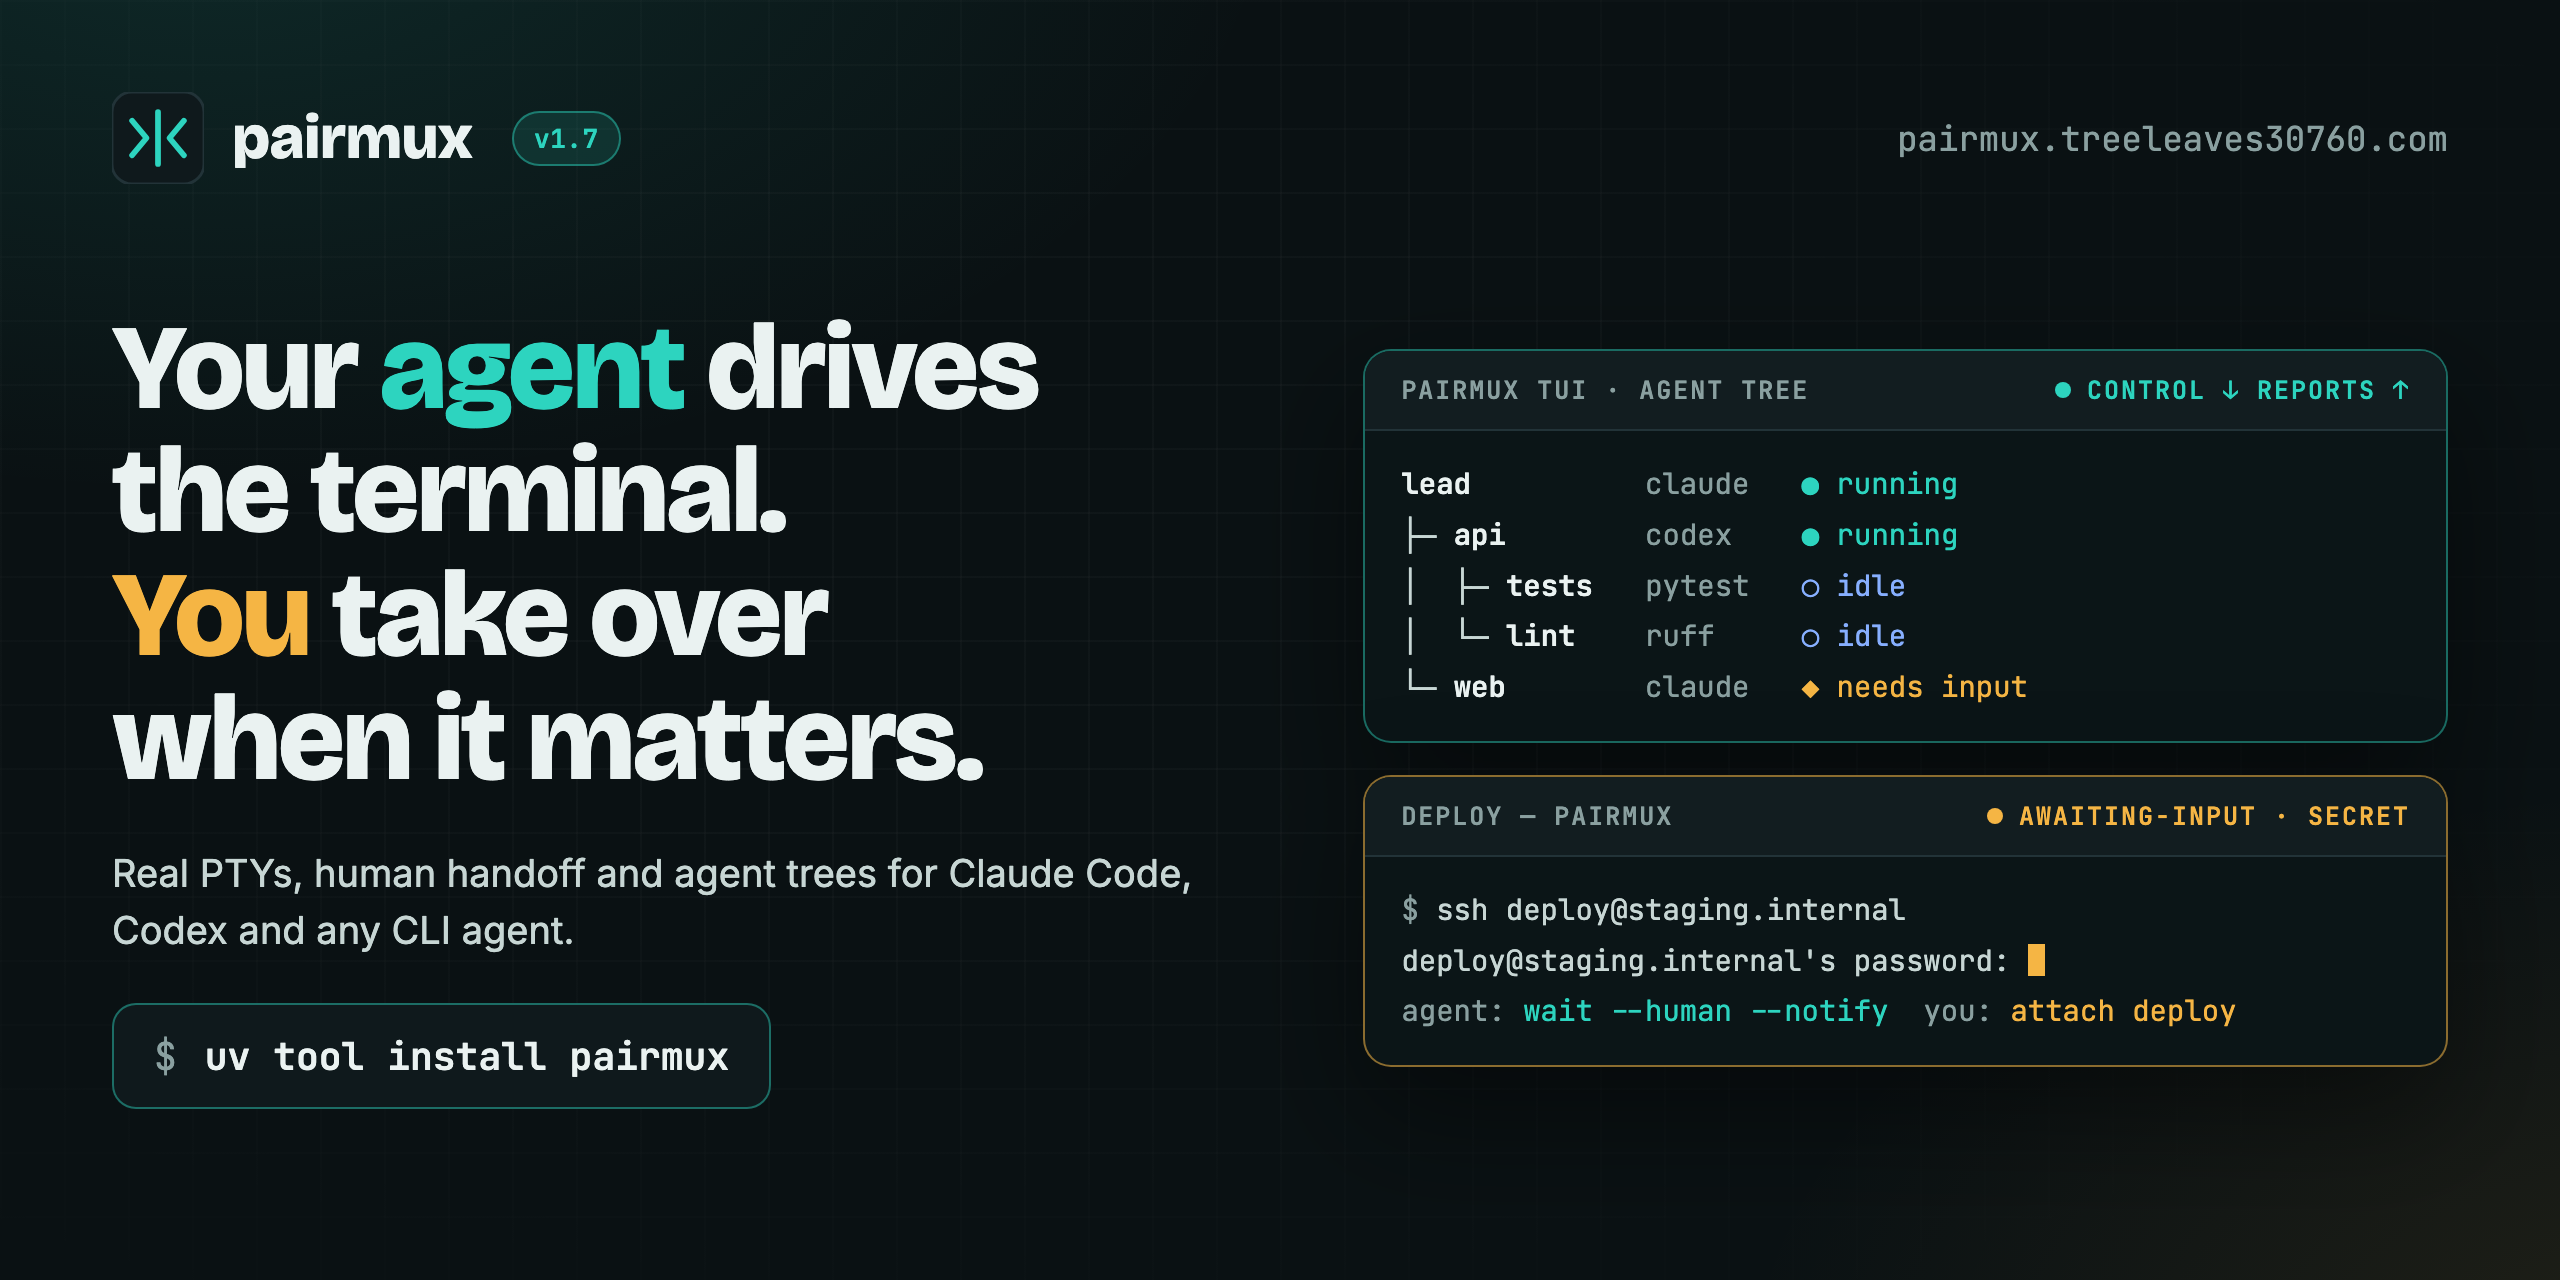
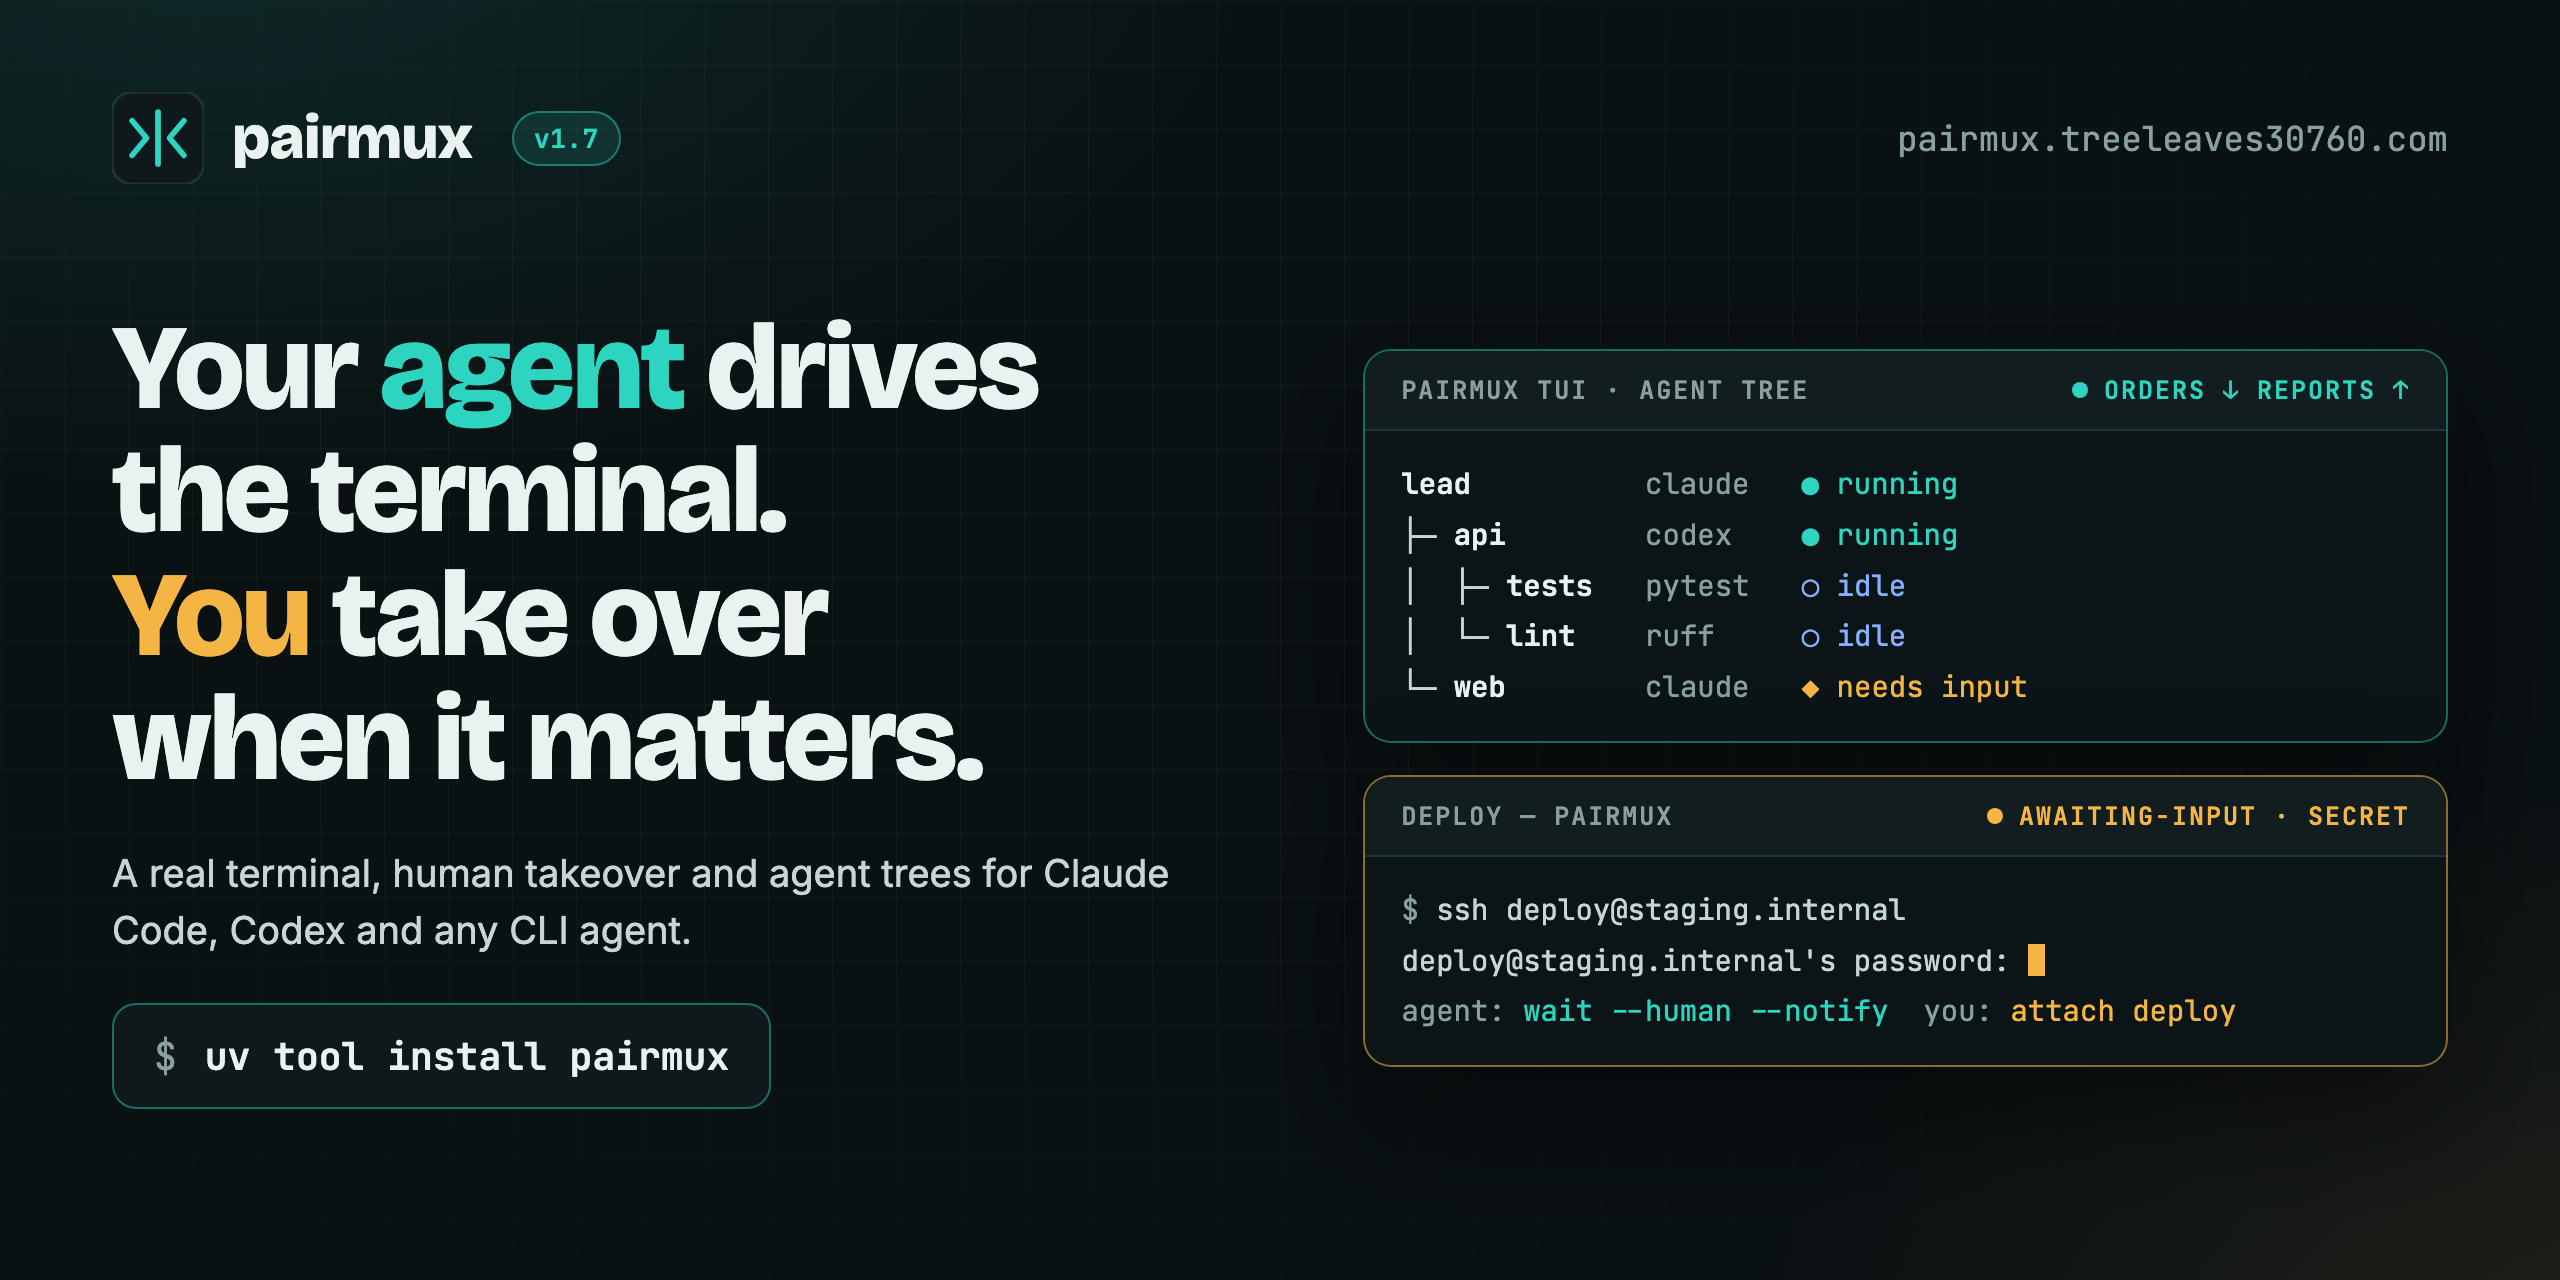
doc: add-chinese-promo-images-and-plainer-copy
Claude-Session: https://claude.ai/code/session_01WkbdfKWnBxNVoFWyd12Hbi

Changed region(s): [[0.0312, 0.6562, 0.4688, 0.75], [0.7812, 0.2812, 0.875, 0.3125]]

diff --git a/assets/promo/promo.html b/assets/promo/promo.html
@@ -4,7 +4,7 @@
 <meta charset="utf-8">
 <title>pairmux promo</title>
 <link rel="preconnect" href="https://fonts.googleapis.com">
-<link href="https://fonts.googleapis.com/css2?family=Bricolage+Grotesque:opsz,wght@12..96,600;12..96,800&family=Inter:wght@400;500;600&family=JetBrains+Mono:wght@400;600;700&display=block" rel="stylesheet">
+<link href="https://fonts.googleapis.com/css2?family=Bricolage+Grotesque:opsz,wght@12..96,600;12..96,800&family=Inter:wght@400;500;600&family=JetBrains+Mono:wght@400;600;700&family=Noto+Sans+TC:wght@400;500;700;900&display=block" rel="stylesheet">
 <style>
 :root {
   --bg-0:#0a1113; --bg-1:#0f191c; --bg-2:#152226; --line:#223338; --line-strong:#2f454b;
@@ -13,9 +13,9 @@
   --agent:#2dd4bf; --agent-soft:rgb(45 212 191 / 12%); --agent-line:rgb(45 212 191 / 45%);
   --human:#f5b544; --human-soft:rgb(245 181 68 / 12%); --human-line:rgb(245 181 68 / 55%);
   --dead:#ff6b6b; --idle:#87afff;
-  --display:'Bricolage Grotesque',system-ui,sans-serif;
-  --body:'Inter',system-ui,sans-serif;
-  --mono:'JetBrains Mono',ui-monospace,Menlo,monospace;
+  --display:'Bricolage Grotesque','Noto Sans TC',system-ui,sans-serif;
+  --body:'Inter','Noto Sans TC',system-ui,sans-serif;
+  --mono:'JetBrains Mono',ui-monospace,Menlo,'Noto Sans TC',monospace;
 }
 * { box-sizing:border-box; margin:0; padding:0; }
 html,body { background:var(--bg-0); }
@@ -113,13 +113,18 @@ body.og h1 { font-size:60px; }
 body.og .sub { font-size:19px; }
 body.og .right { display:grid; gap:16px; align-content:center; }
 body.og .scr { font-size:14.5px; padding:14px 18px; }
+.sub code { font:600 .92em var(--mono); color:var(--fg-0); }
+.tile code { font:500 .92em var(--mono); color:var(--fg-1); }
+html[lang=zh-Hant] h1 { letter-spacing:.01em; line-height:1.12; font-weight:900; }
+html[lang=zh-Hant] .bar { letter-spacing:.06em; }
+html[lang=zh-Hant] .sub, html[lang=zh-Hant] .tile p { line-height:1.6; }
 </style>
 </head>
 <body>
 <template id="logo"><svg viewBox="0 0 32 32" aria-hidden="true"><rect width="32" height="32" rx="7" fill="#0f191c" stroke="#223338"/><path d="m7 10 5 6-5 6m18-12-5 6 5 6M16 7v18" fill="none" stroke="#2dd4bf" stroke-width="2" stroke-linecap="round" stroke-linejoin="round"/></svg></template>
 
 <template id="tree"><div class="term agent">
-  <div class="bar"><span>pairmux tui · agent tree</span><span class="st a">control ↓ reports ↑</span></div>
+  <div class="bar"><span data-t="card_tree_title"></span><span class="st a" data-t="card_tree_status"></span></div>
 <div class="scr"><span class="w">lead</span>          <span class="m">claude</span>   <span class="a">● running</span>
 ├─ <span class="w">api</span>        <span class="m">codex</span>    <span class="a">● running</span>
 │  ├─ <span class="w">tests</span>   <span class="m">pytest</span>   <span class="i">○ idle</span>
@@ -128,7 +133,7 @@ body.og .scr { font-size:14.5px; padding:14px 18px; }
 </div></template>
 
 <template id="handoff"><div class="term human">
-  <div class="bar"><span>deploy — pairmux</span><span class="st h">awaiting-input · secret</span></div>
+  <div class="bar"><span>deploy — pairmux</span><span class="st h" data-t="card_handoff_status"></span></div>
 <div class="scr"><span class="p">$</span> ssh deploy@staging.internal
 deploy@staging.internal's password: <span class="cur"></span>
 <span class="m">agent:</span> <span class="a">wait --human --notify</span>  <span class="m">you:</span> <span class="h">attach deploy</span></div>
@@ -139,43 +144,36 @@ deploy@staging.internal's password: <span class="cur"></span>
   <div class="site">pairmux.treeleaves30760.com</div>
 </div></template>
 
+<template id="h1"><h1 data-t="headline"></h1></template>
+<template id="install"><span class="install"><span class="p">$</span> uv tool install pairmux</span></template>
+
 <!-- land -->
 <div class="page L">
   <div data-use="brand"></div>
   <div class="mid">
     <div class="left">
-      <h1>Your <span class="a">agent</span> drives<br>the terminal.<br><span class="h">You</span> take over<br>when it matters.</h1>
-      <p class="sub">Real PTYs for AI coding agents: REPLs, TUIs, <b>ssh</b> and <b>sudo</b> prompts, <b>git rebase -i</b>. Agents can open whole trees of sub-agents, and you can attach to any of them.</p>
-      <div class="chips">
-        <span class="chip"><b>●</b> real PTY</span>
-        <span class="chip hu"><b>◆</b> human handoff</span>
-        <span class="chip"><b>├</b> agent trees</span>
-        <span class="chip"><b>⧉</b> macOS · Linux · Windows</span>
-      </div>
+      <div data-use="h1"></div>
+      <p class="sub" data-t="sub_land"></p>
+      <div class="chips" data-t="chips"></div>
     </div>
     <div class="stack"><div data-use="tree"></div><div data-use="handoff"></div></div>
   </div>
   <div class="foot">
-    <span class="install"><span class="p">$</span> uv tool install pairmux</span>
-    <span class="flow"><span><b class="a">agent</b> drives</span><span><b class="h">human</b> decides</span><span>tmux optional</span></span>
+    <div data-use="install"></div>
+    <span class="flow" data-t="footer"></span>
   </div>
 </div>
 
 <!-- port -->
 <div class="page P">
   <div data-use="brand"></div>
-  <h1>Your <span class="a">agent</span> drives<br>the terminal.<br><span class="h">You</span> take over<br>when it matters.</h1>
-  <p class="sub">A <b>real terminal</b> for AI coding agents. You watch the same live screen and take over anytime.</p>
+  <div data-use="h1"></div>
+  <p class="sub" data-t="sub_port"></p>
   <div data-use="tree"></div>
   <div data-use="handoff"></div>
-  <div class="grid4">
-    <div class="tile"><h3><span class="a">Real</span> PTY</h3><p><code>python</code>, <code>psql</code>, <code>vim</code>, pagers, <code>[y/N]</code>: things an exec shell cannot run.</p></div>
-    <div class="tile"><h3><span class="h">Human</span> handoff</h3><p>Secrets and judgment calls go to you. <code>attach</code>, answer, hand back.</p></div>
-    <div class="tile"><h3><span class="a">Agent</span> trees</h3><p>Claude Code, Codex, agy as sub-agents. Control flows down, reports flow up.</p></div>
-    <div class="tile"><h3>Runs <span class="a">anywhere</span></h3><p>tmux or the built-in multiplexer. macOS, Linux, native Windows.</p></div>
-  </div>
+  <div class="grid4" data-t="tiles"></div>
   <div class="foot">
-    <span class="install"><span class="p">$</span> uv tool install pairmux</span>
+    <div data-use="install"></div>
     <span class="flow"><span>github.com/treeleaves30760/pairmux</span></span>
   </div>
 </div>
@@ -184,20 +182,124 @@ deploy@staging.internal's password: <span class="cur"></span>
 <div class="page O">
   <div data-use="brand"></div>
   <div class="left">
-    <h1>Your <span class="a">agent</span> drives<br>the terminal.<br><span class="h">You</span> take over<br>when it matters.</h1>
-    <p class="sub">Real PTYs, human handoff and agent trees for Claude Code, Codex and any CLI agent.</p>
-    <div><span class="install"><span class="p">$</span> uv tool install pairmux</span></div>
+    <div data-use="h1"></div>
+    <p class="sub" data-t="sub_banner"></p>
+    <div><div data-use="install"></div></div>
   </div>
   <div class="right"><div data-use="tree"></div><div data-use="handoff"></div></div>
 </div>
 
 <script>
-  const mode = (location.hash || '#land').slice(1);
-  document.body.className = mode;
-  const logo = document.getElementById('logo').innerHTML;
-  document.querySelectorAll('[data-use]').forEach(el => {
-    el.outerHTML = document.getElementById(el.dataset.use).innerHTML.replace('<slot-logo></slot-logo>', logo);
-  });
+/* Copy lives in COPY.en / COPY.zh. In strings, *word* is highlighted and `code` is code. */
+const COPY = /*COPY*/{
+ "en": {
+  "headline": [
+   "Your *agent* drives",
+   "the terminal.",
+   "*You* take over",
+   "when it matters."
+  ],
+  "sub_land": "A real terminal for AI coding agents: `python`, `vim`, ssh/sudo prompts, `git rebase -i`. Agents can launch sub-agents, and you can `attach` to any of them.",
+  "sub_port": "A real terminal for AI coding agents. You watch the same screen live and can take over anytime.",
+  "sub_banner": "A real terminal, human takeover and agent trees for Claude Code, Codex and any CLI agent.",
+  "chips": [
+   "real terminal",
+   "you can take over",
+   "agent trees",
+   "macOS/Linux/Windows"
+  ],
+  "tiles": [
+   {
+    "title": "*Real* terminal",
+    "body": "`python`, `psql`, `vim`, pagers, `[y/N]`: stuff a plain exec shell can't run."
+   },
+   {
+    "title": "*Human* handoff",
+    "body": "Passwords and judgment calls go to you. `attach`, answer, hand back."
+   },
+   {
+    "title": "*Agent* trees",
+    "body": "Claude Code, Codex, agy as sub-agents. Orders go down, reports come up."
+   },
+   {
+    "title": "Runs *anywhere*",
+    "body": "Works with tmux or its own built-in one. macOS, Linux, native Windows."
+   }
+  ],
+  "footer": [
+   "*agent* drives",
+   "*human* decides",
+   "tmux optional"
+  ],
+  "card_tree_title": "pairmux tui · agent tree",
+  "card_tree_status": "orders ↓ reports ↑",
+  "card_handoff_status": "awaiting-input · secret"
+ },
+ "zh": {
+  "headline": [
+   "*agent* 來操作",
+   "真正的終端機",
+   "*你*隨時能接手",
+   "密碼不給它看"
+  ],
+  "sub_land": "給 coding agent 真的終端機：`python`、`vim`、ssh 密碼、`git rebase -i`。你能 `attach` 接手。",
+  "sub_port": "給 AI agent 真的終端機。你看同一個畫面，隨時能接手。",
+  "sub_banner": "給 Claude Code、Codex 等 agent 真終端機，能接手、能分工。",
+  "chips": [
+   "真的終端機",
+   "人隨時接手",
+   "agent 協作",
+   "三平台都能用"
+  ],
+  "tiles": [
+   {
+    "title": "*真的*終端機",
+    "body": "`python`、`psql`、`vim`、`[y/N]` 都能互動。"
+   },
+   {
+    "title": "*人*隨時接手",
+    "body": "密碼、要拍板的事交給你。`attach` 進去處理，再交還。"
+   },
+   {
+    "title": "*Agent* 樹",
+    "body": "Claude Code、Codex、agy 當下屬，指令下、回報上。"
+   },
+   {
+    "title": "*哪都*能跑",
+    "body": "tmux 或內建的都行。macOS、Linux、原生 Windows。"
+   }
+  ],
+  "footer": [
+   "*agent* 操作",
+   "*你*拍板",
+   "tmux 可選"
+  ],
+  "card_tree_title": "agent 樹狀圖",
+  "card_tree_status": "指令↓ 回報↑",
+  "card_handoff_status": "等你輸入 · 密碼"
+ }
+}/*END*/;
+const [mode, lang] = (location.hash || '#land').slice(1).split('-');
+document.body.className = mode;
+const L = COPY[lang === 'zh' ? 'zh' : 'en'];
+document.documentElement.lang = lang === 'zh' ? 'zh-Hant' : 'en';
+const esc = t => t.replace(/&/g,'&amp;').replace(/</g,'&lt;');
+const fmt = (t, hl = 'a') => esc(t).replace(/`([^`]+)`/g,'<code>$1</code>').replace(/\*([^*]+)\*/g,`<span class="${hl}">$1</span>`);
+const logo = document.getElementById('logo').innerHTML;
+document.querySelectorAll('[data-use]').forEach(el => {
+  el.outerHTML = document.getElementById(el.dataset.use).innerHTML.replace('<slot-logo></slot-logo>', logo);
+});
+const icons = [['','●'],['hu','◆'],['','├'],['','⧉']];
+const render = {
+  headline: v => v.map((l, i) => fmt(l, i < 2 ? 'a' : 'h')).join('<br>'),
+  chips: v => v.map((c, i) => `<span class="chip ${icons[i][0]}"><b>${icons[i][1]}</b> ${fmt(c)}</span>`).join(''),
+  footer: v => v.map((f, i) => `<span>${fmt(f, i === 1 ? 'h' : 'a')}</span>`).join(''),
+  tiles: v => v.map((t, i) => `<div class="tile"><h3>${fmt(t.title, i === 1 ? 'h' : 'a')}</h3><p>${fmt(t.body)}</p></div>`).join(''),
+};
+document.querySelectorAll('[data-t]').forEach(el => {
+  const k = el.dataset.t, v = L[k];
+  el.innerHTML = render[k] ? render[k](v) : fmt(v);
+});
 </script>
 </body>
 </html>

diff --git a/ChangeLog.md b/ChangeLog.md
@@ -9,8 +9,9 @@ and this project adheres to [Semantic Versioning](https://semver.org/spec/v2.0.0
 
 ### Added
 
-- **Promo images.** `assets/promo/` holds a README banner and post images for X and Threads,
-  rendered from `promo.html` by `render.sh` (headless Chrome).
+- **Promo images in English and Traditional Chinese.** `assets/promo/` holds a README banner and
+  post images for X and Threads (`*.png` and `*.zh-TW.png`), rendered from `promo.html` by
+  `render.sh` (headless Chrome). The copy is plainer: "real terminal" instead of PTY jargon.
 
 ## [1.7.0] - 2026-11-27
 
